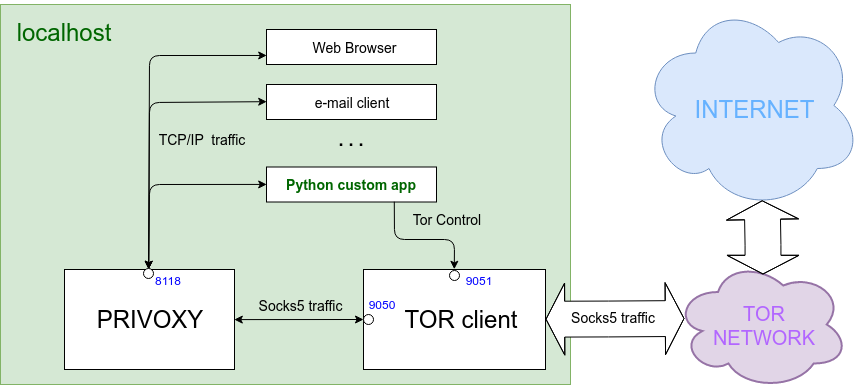
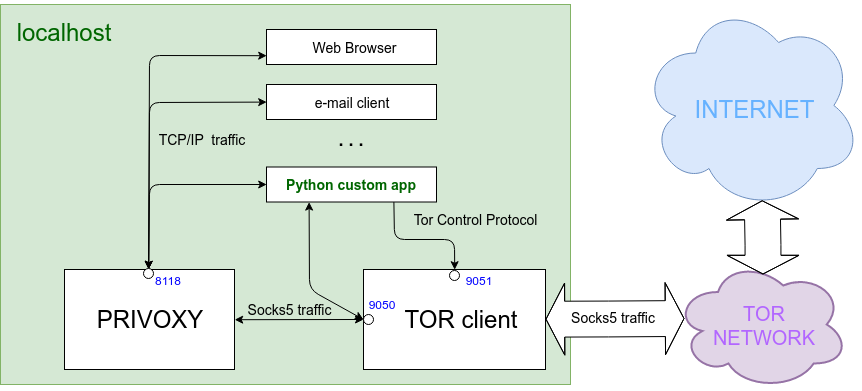
terminados puntos 4.1 y 4.2

diff --git a/README.md b/README.md
@@ -16,15 +16,13 @@ enjoy :)
 
 3. [From SOCKS to HTTP: enhance Tor with Privoxy.](#3)
 
-4. [OK, we're already hidden... or maybe not.](#4)
+4. [Stem, Python's library for Tor agent managing and much more.](4)
 
-5. [Stem, Python's library for Tor agent managing and much more.](#5)
+    4.1 [Switching Tor circuit to get a new output IP address.](#4.1)
 
-    5.1 [Switching Tor circuit to get a new output IP address.](#5.1)
+    4.2 [Select output IP address by country.](#4.2)
 
-    5.2 [Select output IP address by country.](#5.2)
-
-    5.3 [Building hidden services in Tor network.](#5.3)
+    4.3 [Building hidden services in Tor network.](#4.3)
 
 #### <a name="1"></a>1. Short introduction to Tor network.
 
@@ -99,15 +97,33 @@ echo "forward-socks5   /               127.0.0.1:9050 ." | sudo tee --append /et
 sudo service privoxy restart
 ```
 
-And that's it! we're ready to play arround with Python in the deep web :)
+Now we're ready to play arround with Python in the deep web. But first, let's try it.
+
+```bash
+echo "IP real: $(curl --silent "http://ipecho.net/plain")" && echo "IP TOR (socks): $(curl --silent --socks5 127.0.0.1:9050 "http://ipecho.net/plain")" && echo "IP TOR (http): $(curl --silent --proxy http://127.0.0.1:8118 "http://ipecho.net/plain")"
+```
+First line will show our actual real public IP. Seccond and third commands must return same IP public address: our actual Tor network exit relay.
 
 
-#### <a name="4"></a>4. OK, we're already hidden... or maybe not.
+#### <a name="4"></a>4. Stem, Python's library for Tor agent managing and much more.
 
-#### <a name="5"></a>5. Stem, Python's library for Tor agent managing and much more.
+[Stem](https://stem.torproject.org/index.html) is a Python controller library for Tor. It uses Tor's Control Protocol over an a Tor agent.
 
-#### <a name="5.1"></a>5.1 Switching Tor circuit to get a new output IP address.
 
-#### <a name="5.2"></a>5.2 Select output IP address by country.
+##### <a name="4.1"></a>4.1 Switching Tor circuit to get a new output IP address.
 
-#### <a name="5.3"></a>5.3 Building hidden services in Tor network.
+Switching Tor circuit programmatically can be very useful. For example when runnign web scraping programs, pen-testing, etc...
+
+Stem controller allows us to switch to an a new Tor circuit. It uses Tor Control Protocol.
+
+Find an a example in [01_stem_switch_circuit.py](./src/01_stem_switch_circuit.py) script. It interacts with Tor service, running in localhost port 9051 and switchs Tor circuit by a new one. 
+
+##### <a name="4.2"></a>4.2 Select output IP address by country.
+
+A new tor instance can be raised from our Python programs. So, we don't need to have a Tor service running in our system. Instead of this, we launch Tor from our Python program with Stem.
+
+Only one instance can be running at a time. But, despite that, it is a very powerful tool. All Controller options are available for stem library, things as selecting desired country for our "output relay" or switching tor circuit are so easy.
+
+See [02_stem_launch_tor.py](./src/02_stem_launch_tor.py) sript for a detailed example.
+
+##### <a name="4.3"></a>4.3 Building hidden services in Tor network.
